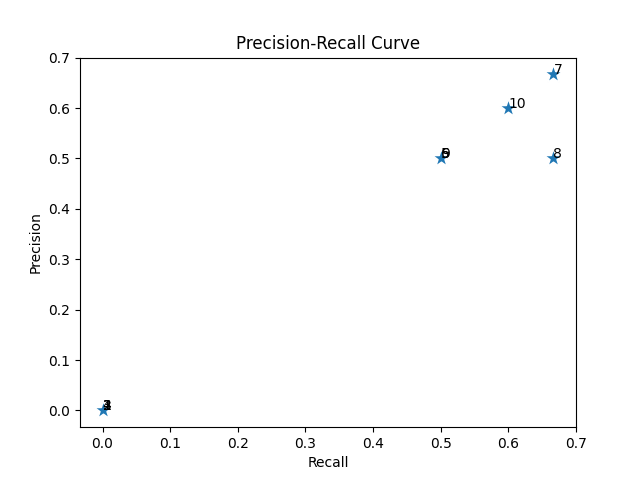
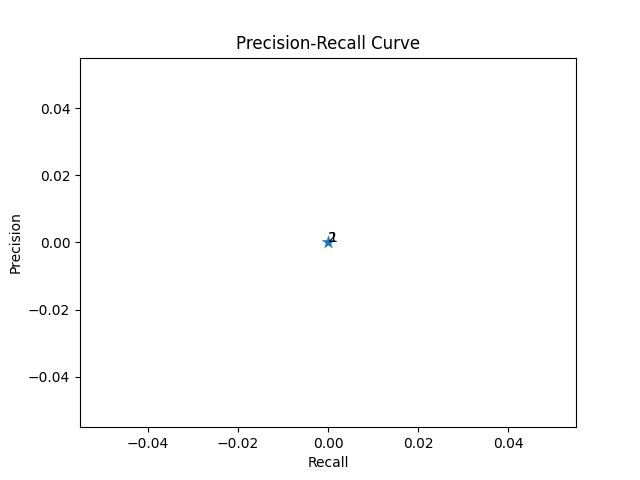
Fix NMS, for loop rookie mistake with indices

diff --git a/Projects/Project4/src/utility.py b/Projects/Project4/src/utility.py
@@ -32,32 +32,28 @@ def get_pred_from_confidence(confidence : list[float], threshold : float = 0.5) 
     y_pred = [True if score >= threshold else False for score in confidence]
     return y_pred
 
-def no_max_supression(bboxes, conf_threshold=0.7, iou_threshold=0.4) -> list[list[float]]:
+def no_max_supression(bboxes, iou_threshold=0.4) -> list[list[float]]:
 
     #bbox : [[x, y, w, h], class, confidence] 
     #bboxes : list[bbox]
-    
 
-    bbox_list_threshold = []
-    bbox_list_new = []
+    bbox_list_result = []
     
     #Sort and filter bbox
     boxes_sorted = sorted(bboxes, key=lambda x: x[2], reverse=True)
-    for bbox in boxes_sorted:
-        if bbox[2] > conf_threshold:
-            bbox_list_threshold.append(bbox)
     
     #Remove boxes with high IOU
-    while len(bbox_list_threshold) > 0:
-        current_bbox = bbox_list_threshold.pop(0)
-        bbox_list_new.append(current_bbox)
-        for bbox in bbox_list_threshold:
-            if current_bbox[1] == bbox[1]:
+    while boxes_sorted:
+        current_bbox = boxes_sorted.pop() #get bbox with highest confidence
+        bbox_list_result.append(current_bbox)
+
+        for bbox in boxes_sorted[:]:
+            if current_bbox[1] == bbox[1]: #if same class
                 iou = calculate_iou(current_bbox[0], bbox[0])
                 if iou > iou_threshold:
-                    bbox_list_threshold.remove(bbox)
+                    boxes_sorted.remove(bbox)
 
-    return bbox_list_new
+    return bbox_list_result
 
 #mAP
 def mean_average_precision(bbox_true : list[list[float]], bbox_pred : list[list[float]], threshold_iot : float = 0.5, plot = False) -> float:
@@ -117,5 +113,25 @@ def mean_average_precision(bbox_true : list[list[float]], bbox_pred : list[list[
 
 if __name__ == '__main__':
     print("Running utility.py")
-    
+    bboxes = [
+    [[189, 22, 32, 28], 5, 0.23136208951473236],
+    [[107, 169, 19, 63], 6, 0.4421188235282898],
+    [[109, 169, 17, 66], 6, 0.337564617395401],
+    [[32, 180, 19, 24], 6, 0.24561572074890137],
+    [[108, 173, 17, 59], 6, 0.3550938367843628],
+    [[189, 14, 33, 36], 5, 0.23134583234786987],
+    [[108, 172, 17, 55], 6, 0.20247505605220795],
+    [[9, 149, 23, 26], 5, 0.24931873381137848],
+    [[108, 173, 19, 59], 6, 0.38591429591178894],
+    [[188, 22, 34, 28], 5, 0.1905873566865921],
+    [[108, 173, 18, 59], 6, 0.345272034406662],
+    [[32, 181, 14, 22], 6, 0.24699757993221283],
+    [[108, 172, 17, 60], 6, 0.36766287684440613],
+    [[108, 172, 19, 60], 6, 0.3239368498325348],
+    ]
+
+    new_bb = no_max_supression(bboxes, iou_threshold=0.4)
+    print(new_bb)
+
+
     print("Done running utility.py")
